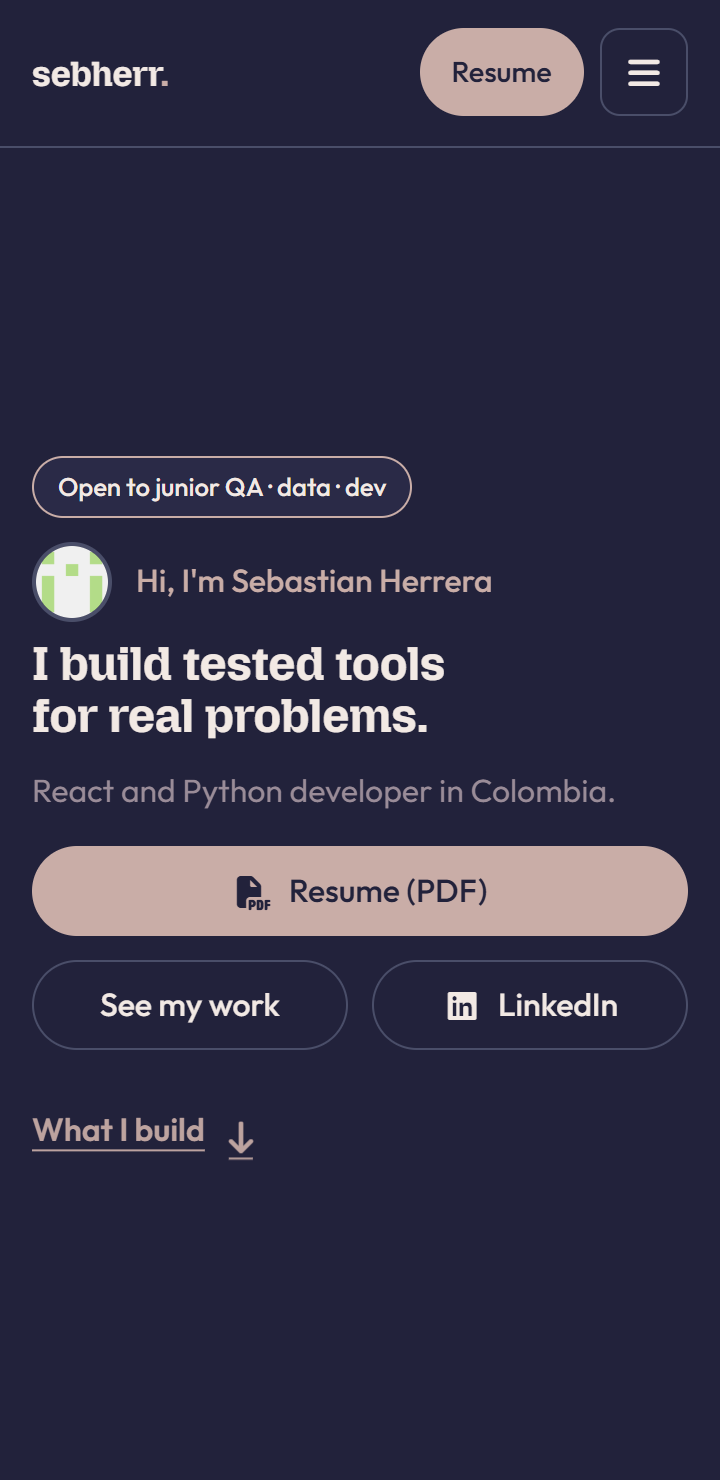
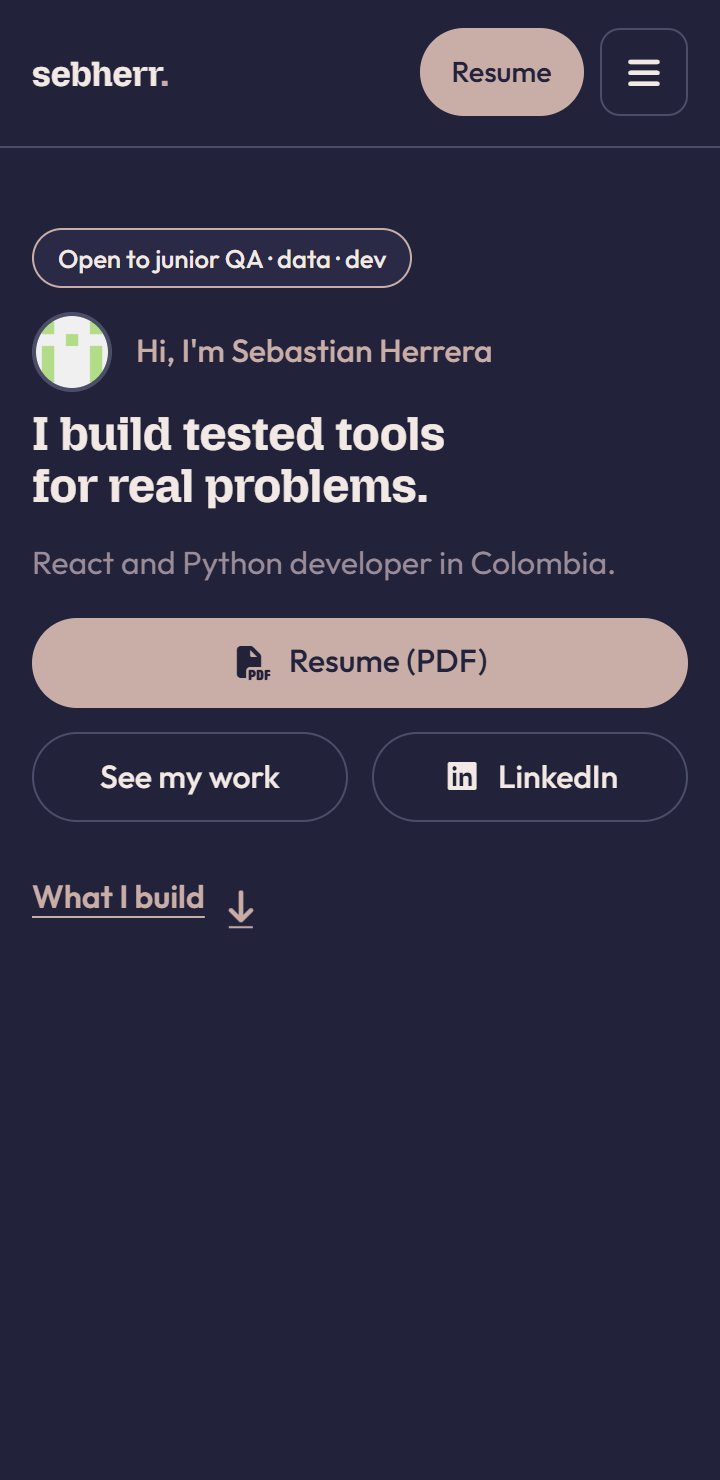
Review fixes: NUL byte in a separator rule (also live), dots hidden without JS, phone panels start at the top

diff --git a/styles.css b/styles.css
@@ -381,7 +381,7 @@ main:focus { outline: none; }
     .doors { gap: var(--s3); padding: 0 var(--s3); }
     .door { padding: var(--s3); }
     .strip { flex-direction: row; flex-wrap: wrap; justify-content: flex-start; margin: var(--s4) 0 0; padding: 0 var(--s3); font-size: 0.85rem; }
-    .strip li + li::before { content: "b7"; margin: 0 0.5rem; }
+    .strip li + li::before { content: "\00b7"; margin: 0 0.5rem; }
 
     /* Sections as bands */
     .section { padding: var(--s5) var(--s3); }
@@ -539,3 +539,10 @@ html { scroll-padding-top: var(--nav-h); scroll-snap-type: y proximity; }
     .next-link i { animation: none; }
 }
 @media (min-width: 601px) and (max-width: 900px) { .nav { gap: 0.6rem; } .nav-links { flex-wrap: wrap; gap: 0.25rem 0.75rem; justify-content: flex-end; min-width: 0; } .nav-resume { flex-shrink: 0; } }
+
+/* Fable review fixes: dots need JS to track the section, so hide them without it;
+   on phones the intro panels start at the top instead of centring in the screen. */
+html:not(.js) .dots { display: none; }
+@media (max-width: 600px) {
+  #intro, #build, #proof { justify-content: flex-start; padding-top: var(--s5, 40px); }
+}
